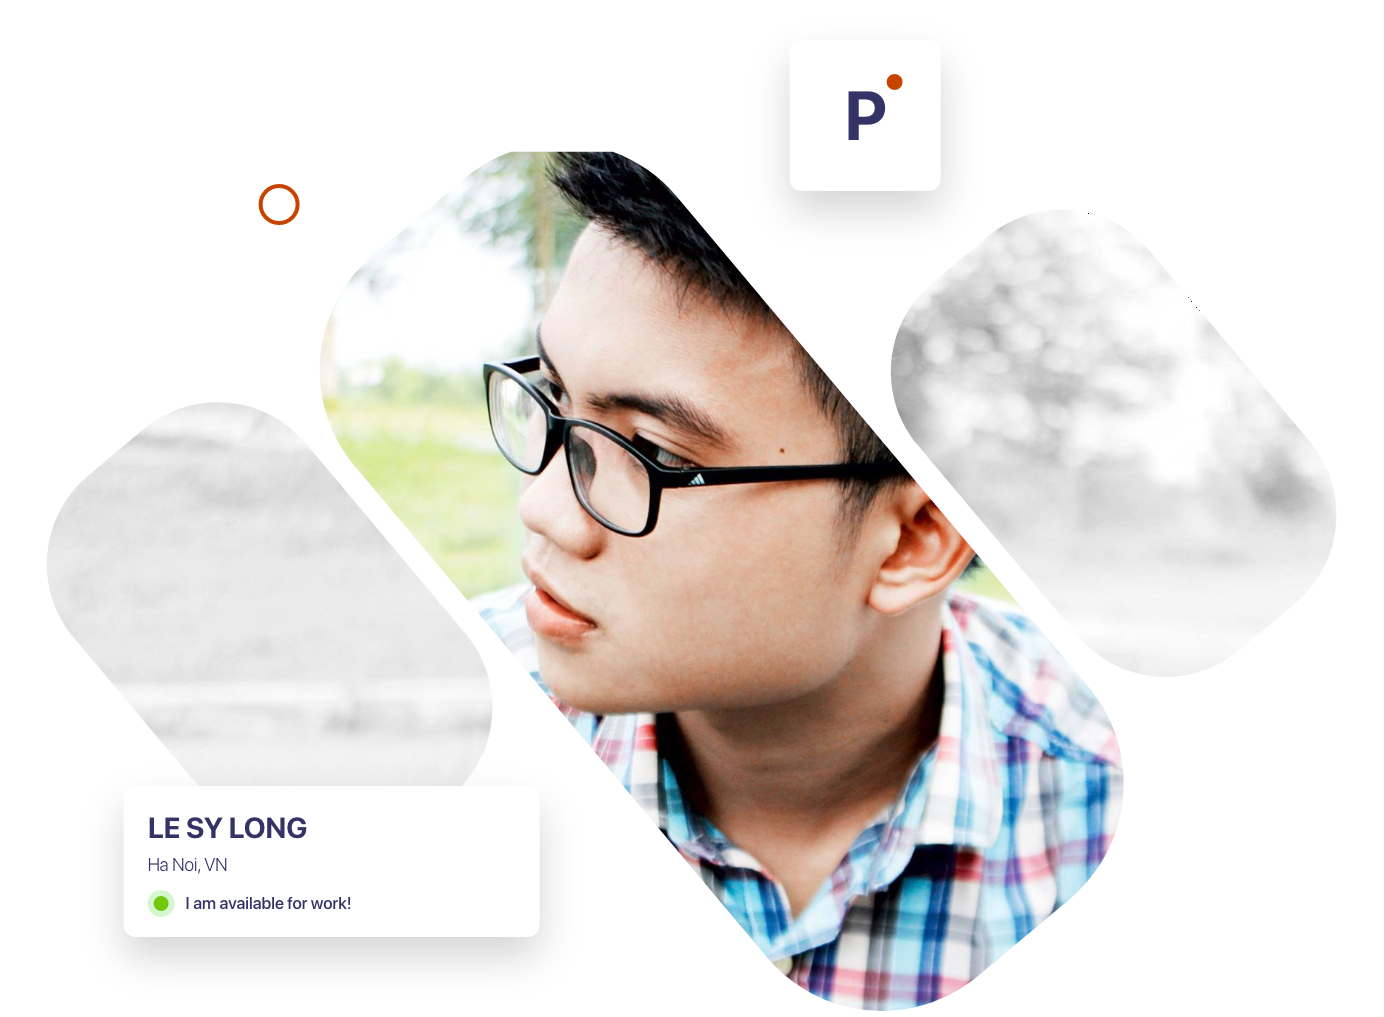
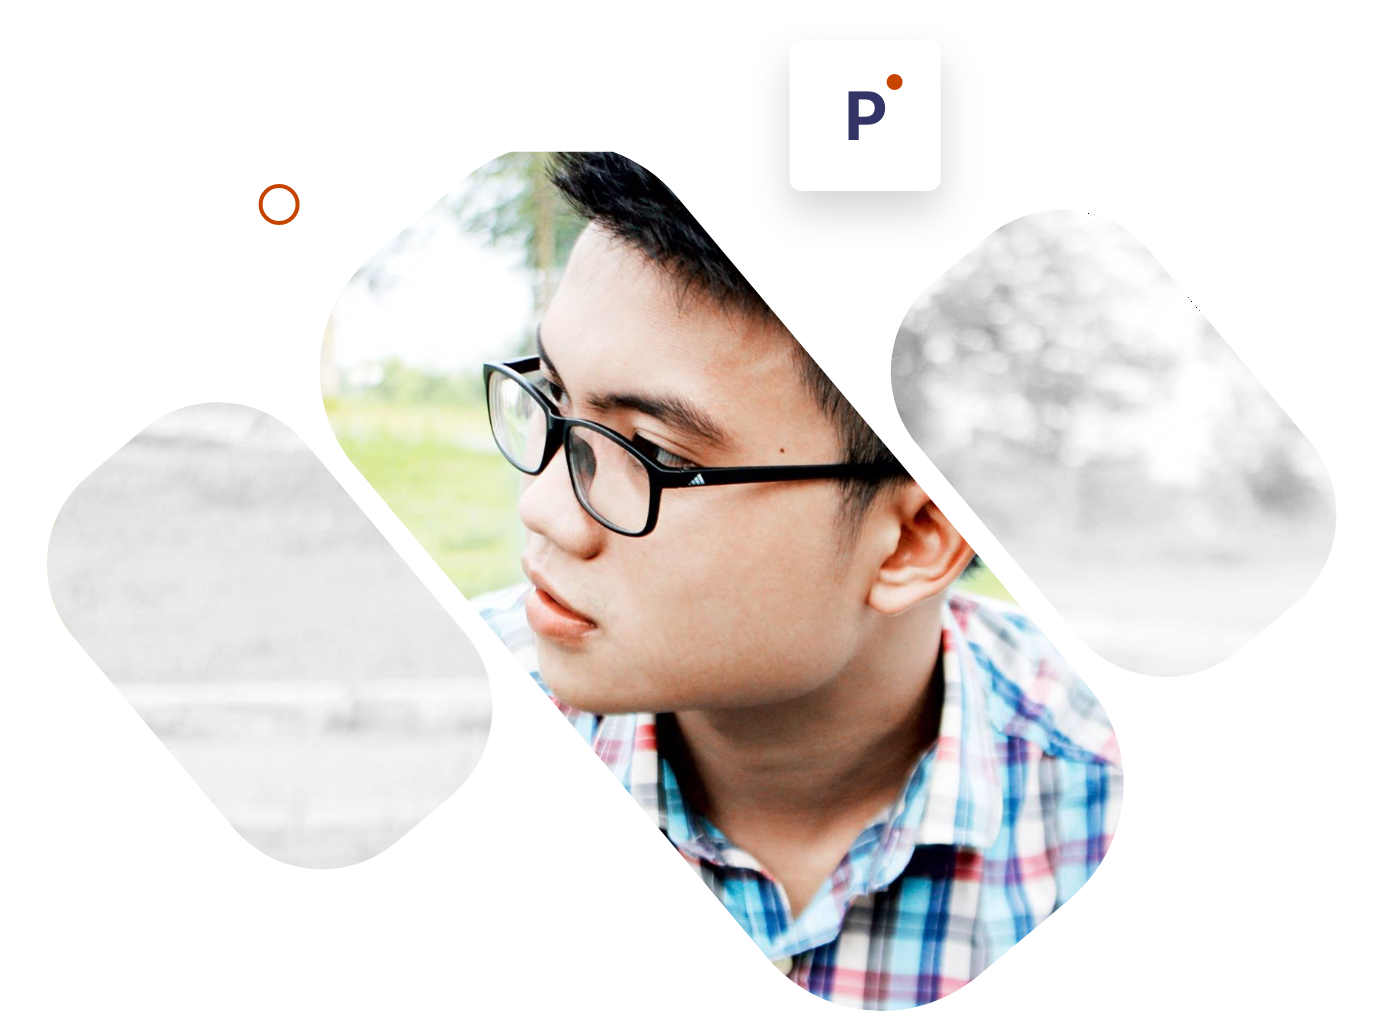
Fix responsive home background

diff --git a/CSS/style.css b/CSS/style.css
@@ -2,8 +2,9 @@
     position: absolute;
     width: auto;
     min-height: 50px;
-    bottom: 33em;
-    padding-left: 16em;
+    top: 50%;
+    transform: translateY(-50%);
+    padding-left: 14em;
     color: #fff;
     z-index: 1;
     opacity: 0;
@@ -13,6 +14,11 @@
     -ms-user-select: none;
     user-select: none;
 }
+
+h1 {
+    font-size: 5vw;
+}
+
 .sing .ms-btn--slider {
     font-size: 26px;
     text-transform: uppercase;
@@ -25,6 +31,42 @@
     letter-spacing: .15em;
     padding-bottom: 2em;
     color: white;
+}
+
+@media only screen and (max-width: 1900px) {
+    .sing .ms-btn--slider {
+        font-size: 22px;
+    }
+}
+
+@media only screen and (max-width: 1630px) {
+    .sing .ms-btn--slider {
+        font-size: 24px;
+    }
+}
+
+@media only screen and (max-width: 1450px) {
+    .sing .ms-btn--slider {
+        font-size: 22px;
+    }
+}
+
+@media only screen and (max-width: 1200px) {
+    .sing .ms-btn--slider {
+        font-size: 22px;
+    }
+}
+
+@media only screen and (max-width: 1000px) {
+    .sing .ms-btn--slider {
+        font-size: 20px;
+    }
+}
+
+@media only screen and (max-width: 850px) {
+    .sing .ms-btn--slider {
+        font-size: 18px;
+    }
 }
 
 a.about-me-link {
@@ -92,5 +134,12 @@ a.about-me-link {
     top: 50%;
     left: 50%;
     transform: translate(-22%, -50%);
+}
+
+
+@media only screen and (max-width: 850px) {
+    .slide-inner-image-long {
+        display: none;
+    }
 }
 
